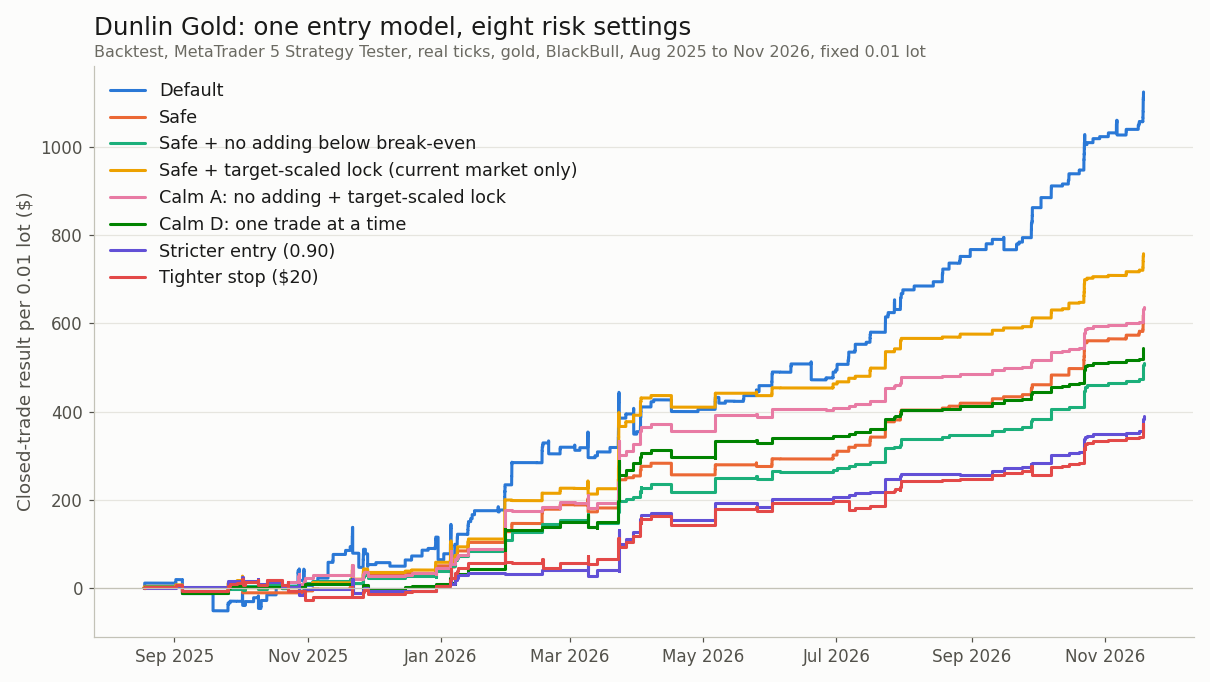
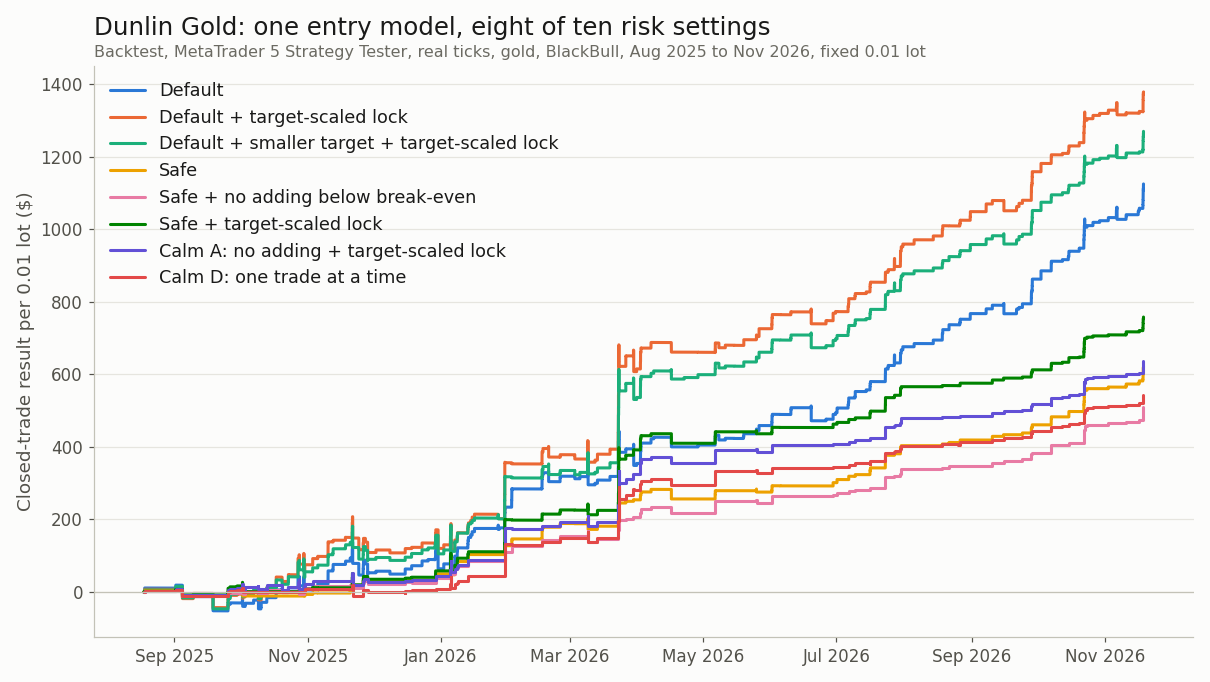
Site build from EA_Focus (scripts/gtm.py site build)

diff --git a/research/dunlin-risk-settings.html b/research/dunlin-risk-settings.html
@@ -1,24 +1,26 @@
 <!doctype html>
 <html lang="en"><head><meta charset="utf-8"><meta name="viewport" content="width=device-width,initial-scale=1">
-<title>Dunlin Gold: eight risk settings, one entry model | Joshua Dunnink</title><meta name="description" content="Dunlin Gold uses a small neural network to decide when gold is in an orderly stretch with a lean to one side. That entry model is the same in every row bel">
+<title>Dunlin Gold: ten risk settings, one entry model | Joshua Dunnink</title><meta name="description" content="Dunlin Gold uses a small neural network to decide when gold is in an orderly stretch with a lean to one side. That entry model is the same in every row bel">
 <link rel="canonical" href="https://joshuadunnink.github.io/trading-systems/research/dunlin-risk-settings.html"><meta property="og:type" content="website">
-<meta property="og:title" content="Dunlin Gold: eight risk settings, one entry model | Joshua Dunnink"><meta property="og:description" content="Dunlin Gold uses a small neural network to decide when gold is in an orderly stretch with a lean to one side. That entry model is the same in every row bel">
+<meta property="og:title" content="Dunlin Gold: ten risk settings, one entry model | Joshua Dunnink"><meta property="og:description" content="Dunlin Gold uses a small neural network to decide when gold is in an orderly stretch with a lean to one side. That entry model is the same in every row bel">
 <meta property="og:url" content="https://joshuadunnink.github.io/trading-systems/research/dunlin-risk-settings.html">
 <link rel="stylesheet" href="../assets/style.css?v=cd5732a902"></head>
 <body><header><a class="name" href="../index.html">Joshua Dunnink · Trading Systems</a><nav><a href="../index.html">Home</a> <a href="../products.html">Products</a> <a href="../signal.html">Live signal</a> <a href="../market.html">Gold market</a> <a href="../research/index.html" aria-current=page>Research</a> <a href="../pipeline.html">Pipeline</a> <a href="../about.html">About</a> <a href="../risk.html">Risk &amp; privacy</a></nav></header>
 <main>
-<h1>Dunlin Gold: eight risk settings, one entry model</h1><p>Dunlin Gold uses a small neural network to decide when gold is in an orderly stretch with a lean to one side. That entry model is the same in every row below. What changes is how much risk each setting takes around it: how strict the entry is, how many trades may be open, where the stop sits and how profit is protected. We tested each setting the same way and drew them in one chart.</p>
+<h1>Dunlin Gold: ten risk settings, one entry model</h1><p>Dunlin Gold uses a small neural network to decide when gold is in an orderly stretch with a lean to one side. That entry model is the same in every row below. What changes is how much risk each setting takes around it: how strict the entry is, how many trades may be open, where the stop sits and how profit is protected. We tested each setting the same way and drew eight of them in one chart; the table has all ten.</p>
 <figure><img src="../img/dunlin_profiles_equity.png" width="1210" height="682" alt="Closed-trade result per 0.01 lot of eight Dunlin Gold risk settings, BlackBull, August 2025 to November 2026" loading="lazy"><figcaption>Closed-trade result per 0.01 lot of eight Dunlin Gold risk settings, BlackBull, August 2025 to November 2026</figcaption></figure>
 <p>(Backtest, MetaTrader 5 Strategy Tester, real ticks, gold, BlackBull, August 2025 to November 2026, fixed 0.01 lot. The table also shows IC Markets and VT Markets over the same months.)</p>
 <h2 id="what-each-setting-does">What each setting does</h2>
 <ul>
 <li><strong>Default</strong>: the validated configuration. Up to three trades on one side, a stop of at most $58 per 0.01 lot.</li>
+<li><strong>Default + target-scaled lock</strong>: Default, but profit is locked once a trade has covered 70 % of its own target instead of at a fixed dollar amount.</li>
+<li><strong>Default + smaller target + target-scaled lock</strong>: the same with a target of 0.8 instead of 1.1 times the recent bar range.</li>
 <li><strong>Safe</strong>: only the network's most confident entries, at most two trades at once, stop at most $30.</li>
 <li><strong>Safe + no adding below break-even</strong>: Safe, but no new trade while an open trade is still below its entry price.</li>
 <li><strong>Safe + target-scaled lock</strong>: Safe, but profit is locked once a trade has covered 70 % of its own target, instead of at a fixed dollar amount.</li>
 <li><strong>Calm A</strong>: Safe with both changes above.</li>
 <li><strong>Calm D</strong>: Calm A with one trade at a time.</li>
-<li><strong>Stricter entry (0.90)</strong> and <strong>Tighter stop ($20)</strong>: Calm A with a stricter entry or a smaller stop.</li>
+<li><strong>Stricter entry (0.90)</strong> and <strong>Tighter stop ($20)</strong>: Calm A with a stricter entry or a smaller stop (table only; both were clearly worse).</li>
 </ul>
 <h2 id="the-numbers">The numbers</h2>
 <p>Per 0.01 lot, BlackBull / IC Markets / VT Markets.</p>
@@ -40,6 +42,22 @@
 <td>2.2 / 2.8 / 2.3</td>
 <td>95 / 75 / 90</td>
 <td>39 / 39 / 39</td>
+<td>4 / 3 / 4</td>
+</tr>
+<tr>
+<td>Default + target-scaled lock</td>
+<td>1,378 / 1,633 / 1,374</td>
+<td>2.5 / 2.8 / 2.5</td>
+<td>100 / 101 / 91</td>
+<td>40 / 39 / 39</td>
+<td>4 / 3 / 4</td>
+</tr>
+<tr>
+<td>Default + smaller target + target-scaled lock</td>
+<td>1,270 / 1,504 / 1,337</td>
+<td>2.4 / 2.7 / 2.4</td>
+<td>95 / 101 / 90</td>
+<td>39 / 36 / 39</td>
 <td>4 / 3 / 4</td>
 </tr>
 <tr>
@@ -106,6 +124,8 @@
 <li><strong>A tighter stop made things worse, not safer.</strong> With a $20 stop many more trades are stopped out, so the largest dip grew and recoveries took about three months instead of seven weeks.</li>
 <li><strong>A stricter entry trades much less and earns about half</strong>, with long flat stretches.</li>
 <li><strong>The target-scaled lock earned more at no extra risk in this period</strong>, because gold moved more than the old fixed lock allowed for. On older gold history replayed at today's price it gave some of that back, so we treat it as a setting for the current market, not as a safety feature.</li>
+<li><strong>On Default the target-scaled lock adds 3 to 23 % profit</strong>, more with Default's own target than with the smaller one. On IC Markets the largest dip grew from $75 to $101, because Default holds up to three trades on one side and longer-running winners leave more of the book exposed when a move turns.</li>
+<li><strong>Exits cannot rescue a bad entry.</strong> Default's four full stops and its big losses are identical in every exit setting: they come from which trades are taken, not from how they are closed. Only the entry side (Safe's stricter selection, no adding, fewer trades at once) removes them.</li>
 <li><strong>The early break-even is what protects every setting.</strong> Moving the stop to entry after a small favourable move is kept in all rows; moving it later multiplied full stops in our tests.</li>
 <li><strong>The size of the worst single trade (about $30 per 0.01 lot with a $30 stop) only shrinks with the lot size.</strong> A smaller lot shrinks every number in the table by the same share, profit included.</li>
 </ul>
@@ -113,6 +133,7 @@
 <ul>
 <li><strong>Calmest across many years: Safe with one trade at a time.</strong> On older gold history (2013 to 2024) replayed at today's price it lowered the largest dip in every group of years we tested and the worst week in most of them. It earns clearly less.</li>
 <li><strong>Calmest in the current market: Safe with no adding below break-even</strong> (Calm A adds the target-scaled lock for the current market). It cuts the most pain in 2025 and 2026, but it did not hold in every older stretch.</li>
+<li><strong>Most profit, at Default's level of risk, in the current market: Default with the target-scaled lock.</strong> It keeps Default's full stops and adds to its largest dip on one broker, so it suits someone who already accepts Default's swings.</li>
 <li><strong>Smaller everything: any setting at a smaller lot.</strong> Every dollar figure in the table shrinks by the same share, profit included.</li>
 </ul>
 <h2 id="how-much-to-trust-it">How much to trust it</h2>

diff --git a/research/index.html b/research/index.html
@@ -7,7 +7,7 @@
 <link rel="stylesheet" href="../assets/style.css?v=cd5732a902"></head>
 <body><header><a class="name" href="../index.html">Joshua Dunnink · Trading Systems</a><nav><a href="../index.html">Home</a> <a href="../products.html">Products</a> <a href="../signal.html">Live signal</a> <a href="../market.html">Gold market</a> <a href="../research/index.html" aria-current=page>Research</a> <a href="../pipeline.html">Pipeline</a> <a href="../about.html">About</a> <a href="../risk.html">Risk &amp; privacy</a></nav></header>
 <main>
-<h1>Research</h1><p>Notes from our own testing: what we measured, how we measured it, and what we concluded. Every figure comes from our own measurements and backtests on broker tick data; there are no outside sources on this page.</p><article class="card"><h2><a href="follow-through.html">Gold range breakouts: measuring follow-through</a></h2><p>A range breakout earns when price keeps going after it breaks out, and loses when the break fades straight back. That sounds obvious, but how often a break keeps going changes a great deal from one period of the market to the next. We measure it directly,...</p></article><article class="card"><h2><a href="regime-cards.html">Regime cards for strategies that work in some markets</a></h2><p>Many trading ideas earn in one kind of market and give it back in another. We do not throw such an idea away, and we do not hide that it is conditional. Every research system gets a regime card, and a card is only filled in when we can back each line with a...</p></article><article class="card"><h2><a href="uncorrelated-book.html">Three markets, one account: low correlation</a></h2><p>A single trading system earns in the markets that suit it and waits in the rest. Several systems built on different instruments wait at different times, so the account curve is smoother than any one of them. We checked this on our own results instead of...</p></article><article class="card"><h2><a href="drift-switch-gold.html">Gold breakouts: stand aside after a run-up</a></h2><p>One of our gold systems buys and sells breaks of a daily level. In our testing it behaved very differently depending on what gold had done in the previous month, so we measured that instead of tuning a number.</p></article><article class="card"><h2><a href="dunlin-risk-settings.html">Dunlin Gold: eight risk settings, one entry model</a></h2><p>Dunlin Gold uses a small neural network to decide when gold is in an orderly stretch with a lean to one side. That entry model is the same in every row below. What changes is how much risk each setting takes around it: how strict the entry is, how many trades...</p></article>
+<h1>Research</h1><p>Notes from our own testing: what we measured, how we measured it, and what we concluded. Every figure comes from our own measurements and backtests on broker tick data; there are no outside sources on this page.</p><article class="card"><h2><a href="follow-through.html">Gold range breakouts: measuring follow-through</a></h2><p>A range breakout earns when price keeps going after it breaks out, and loses when the break fades straight back. That sounds obvious, but how often a break keeps going changes a great deal from one period of the market to the next. We measure it directly,...</p></article><article class="card"><h2><a href="regime-cards.html">Regime cards for strategies that work in some markets</a></h2><p>Many trading ideas earn in one kind of market and give it back in another. We do not throw such an idea away, and we do not hide that it is conditional. Every research system gets a regime card, and a card is only filled in when we can back each line with a...</p></article><article class="card"><h2><a href="uncorrelated-book.html">Three markets, one account: low correlation</a></h2><p>A single trading system earns in the markets that suit it and waits in the rest. Several systems built on different instruments wait at different times, so the account curve is smoother than any one of them. We checked this on our own results instead of...</p></article><article class="card"><h2><a href="drift-switch-gold.html">Gold breakouts: stand aside after a run-up</a></h2><p>One of our gold systems buys and sells breaks of a daily level. In our testing it behaved very differently depending on what gold had done in the previous month, so we measured that instead of tuning a number.</p></article><article class="card"><h2><a href="dunlin-risk-settings.html">Dunlin Gold: ten risk settings, one entry model</a></h2><p>Dunlin Gold uses a small neural network to decide when gold is in an orderly stretch with a lean to one side. That entry model is the same in every row below. What changes is how much risk each setting takes around it: how strict the entry is, how many trades...</p></article>
 </main>
 <footer><p>Trading leveraged products carries a high risk of loss. Every performance figure on this site is a backtest unless it is marked as the live signal. Past results, backtested or live, do not predict future results. Nothing here is financial advice.</p><p>Built and tested by Joshua Dunnink. Products are sold only through the
 <a href="https://www.mql5.com/en/users/joshuadunnink">mql5.com Market</a>.</p></footer>
